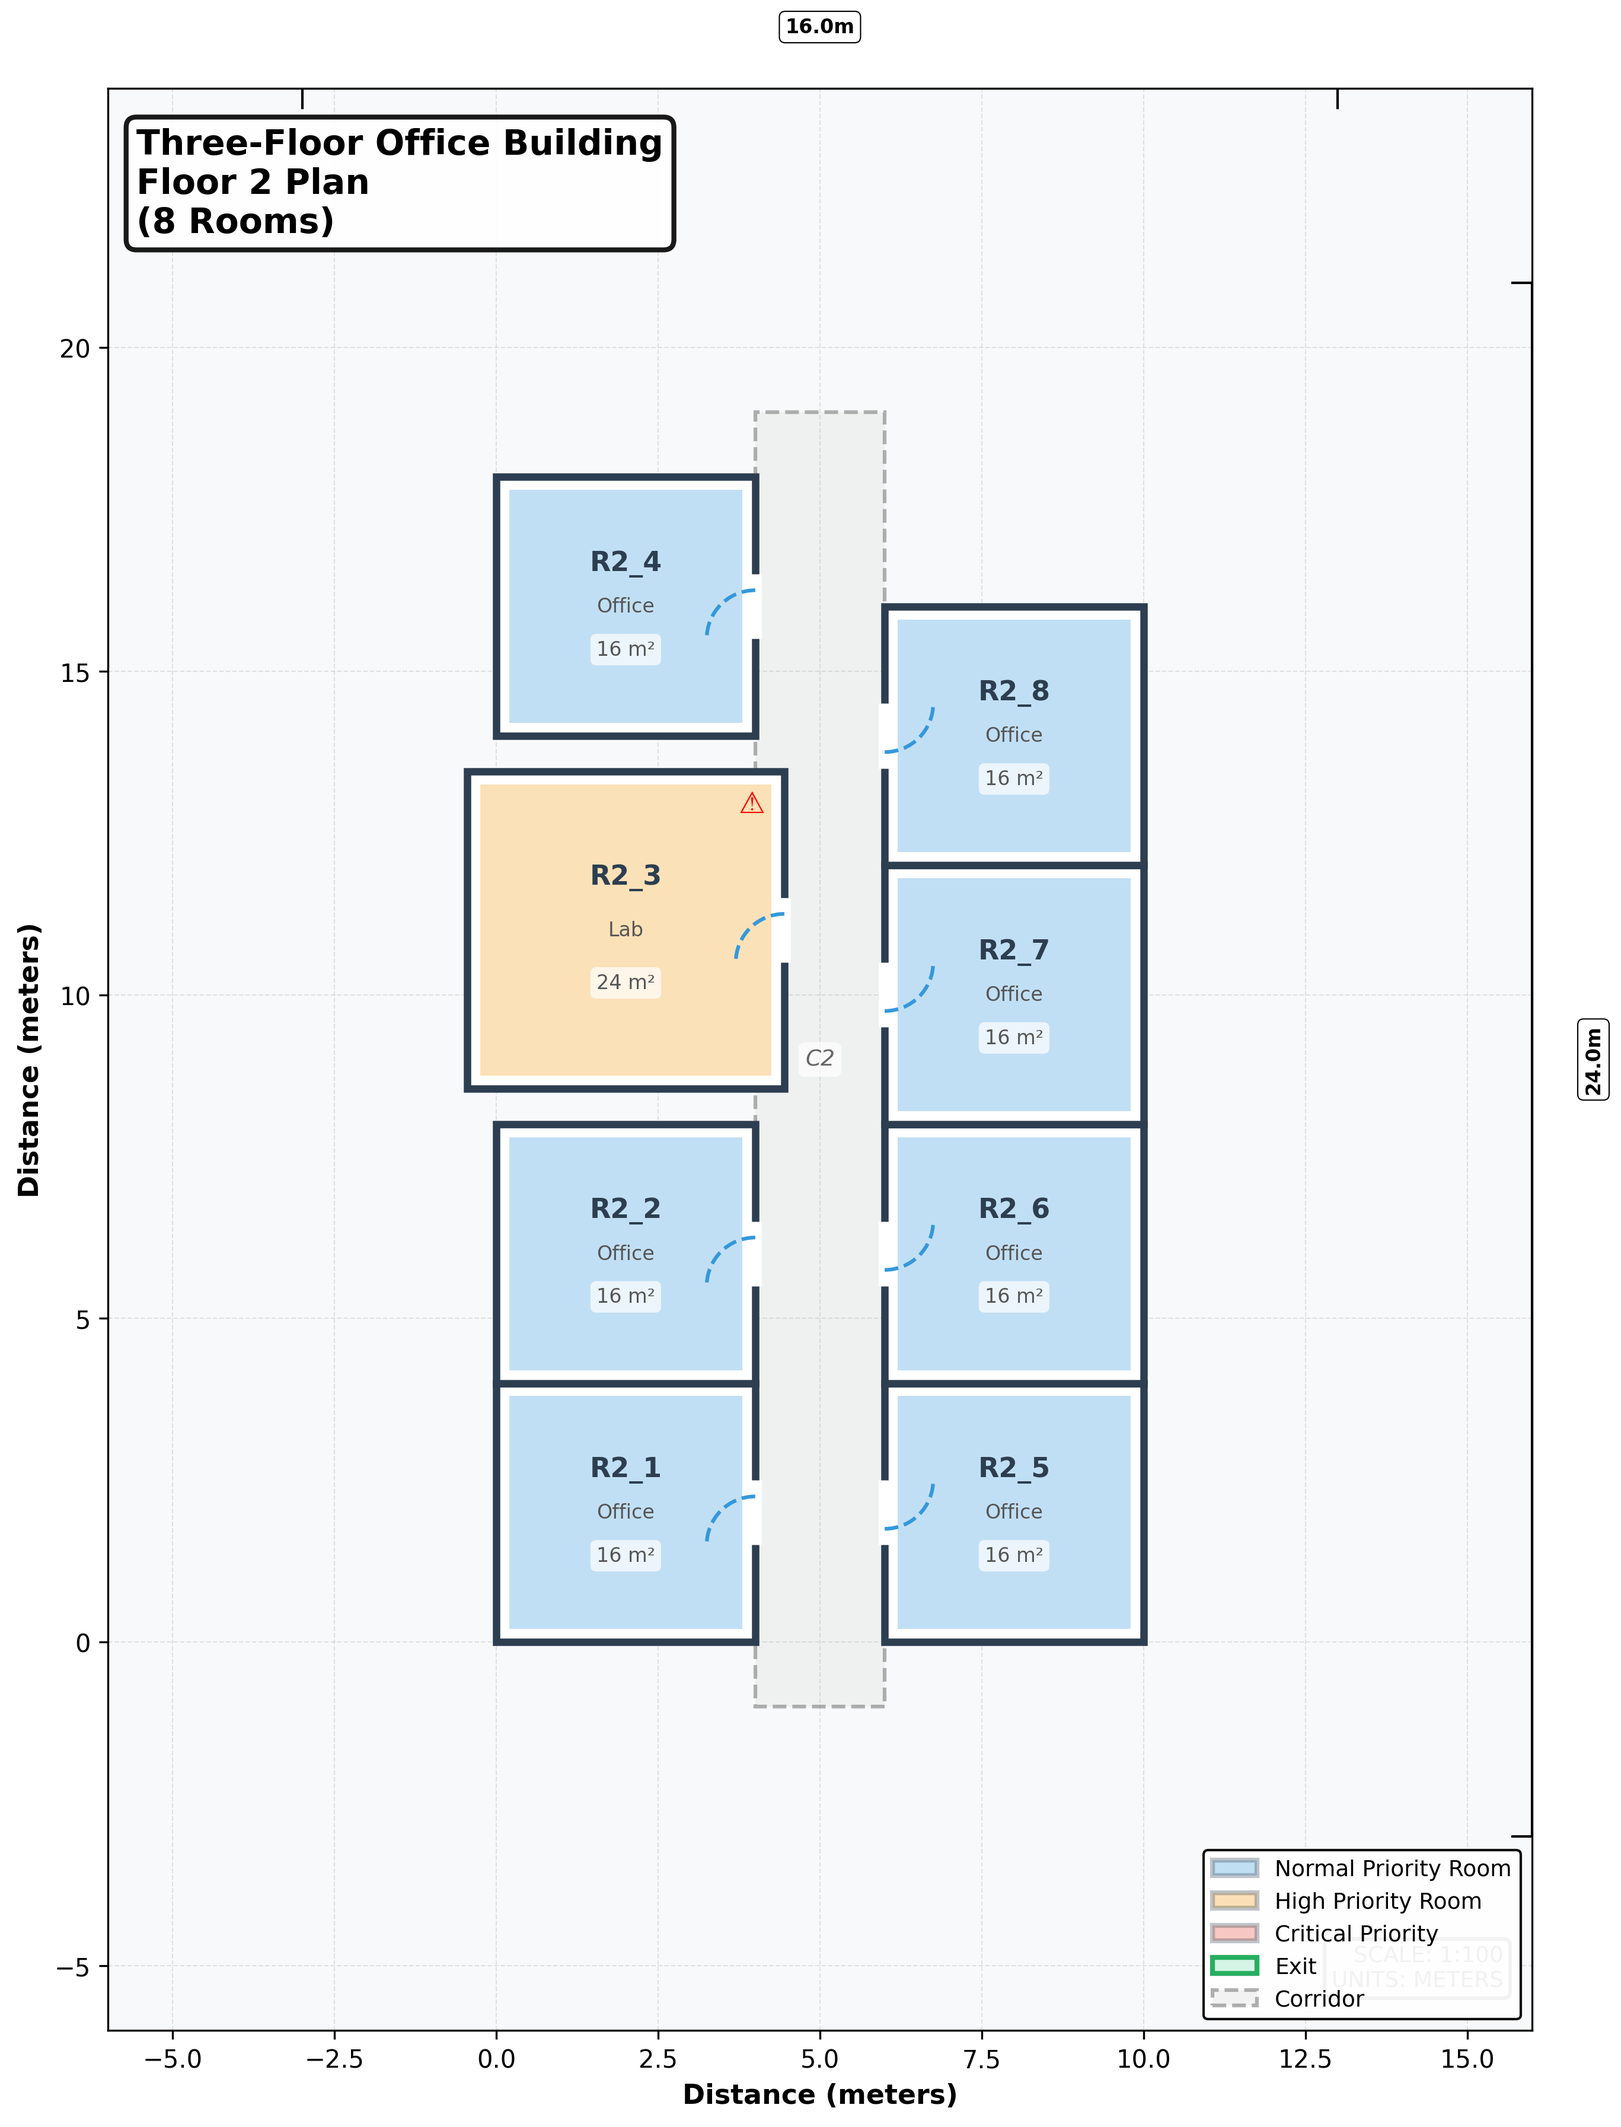
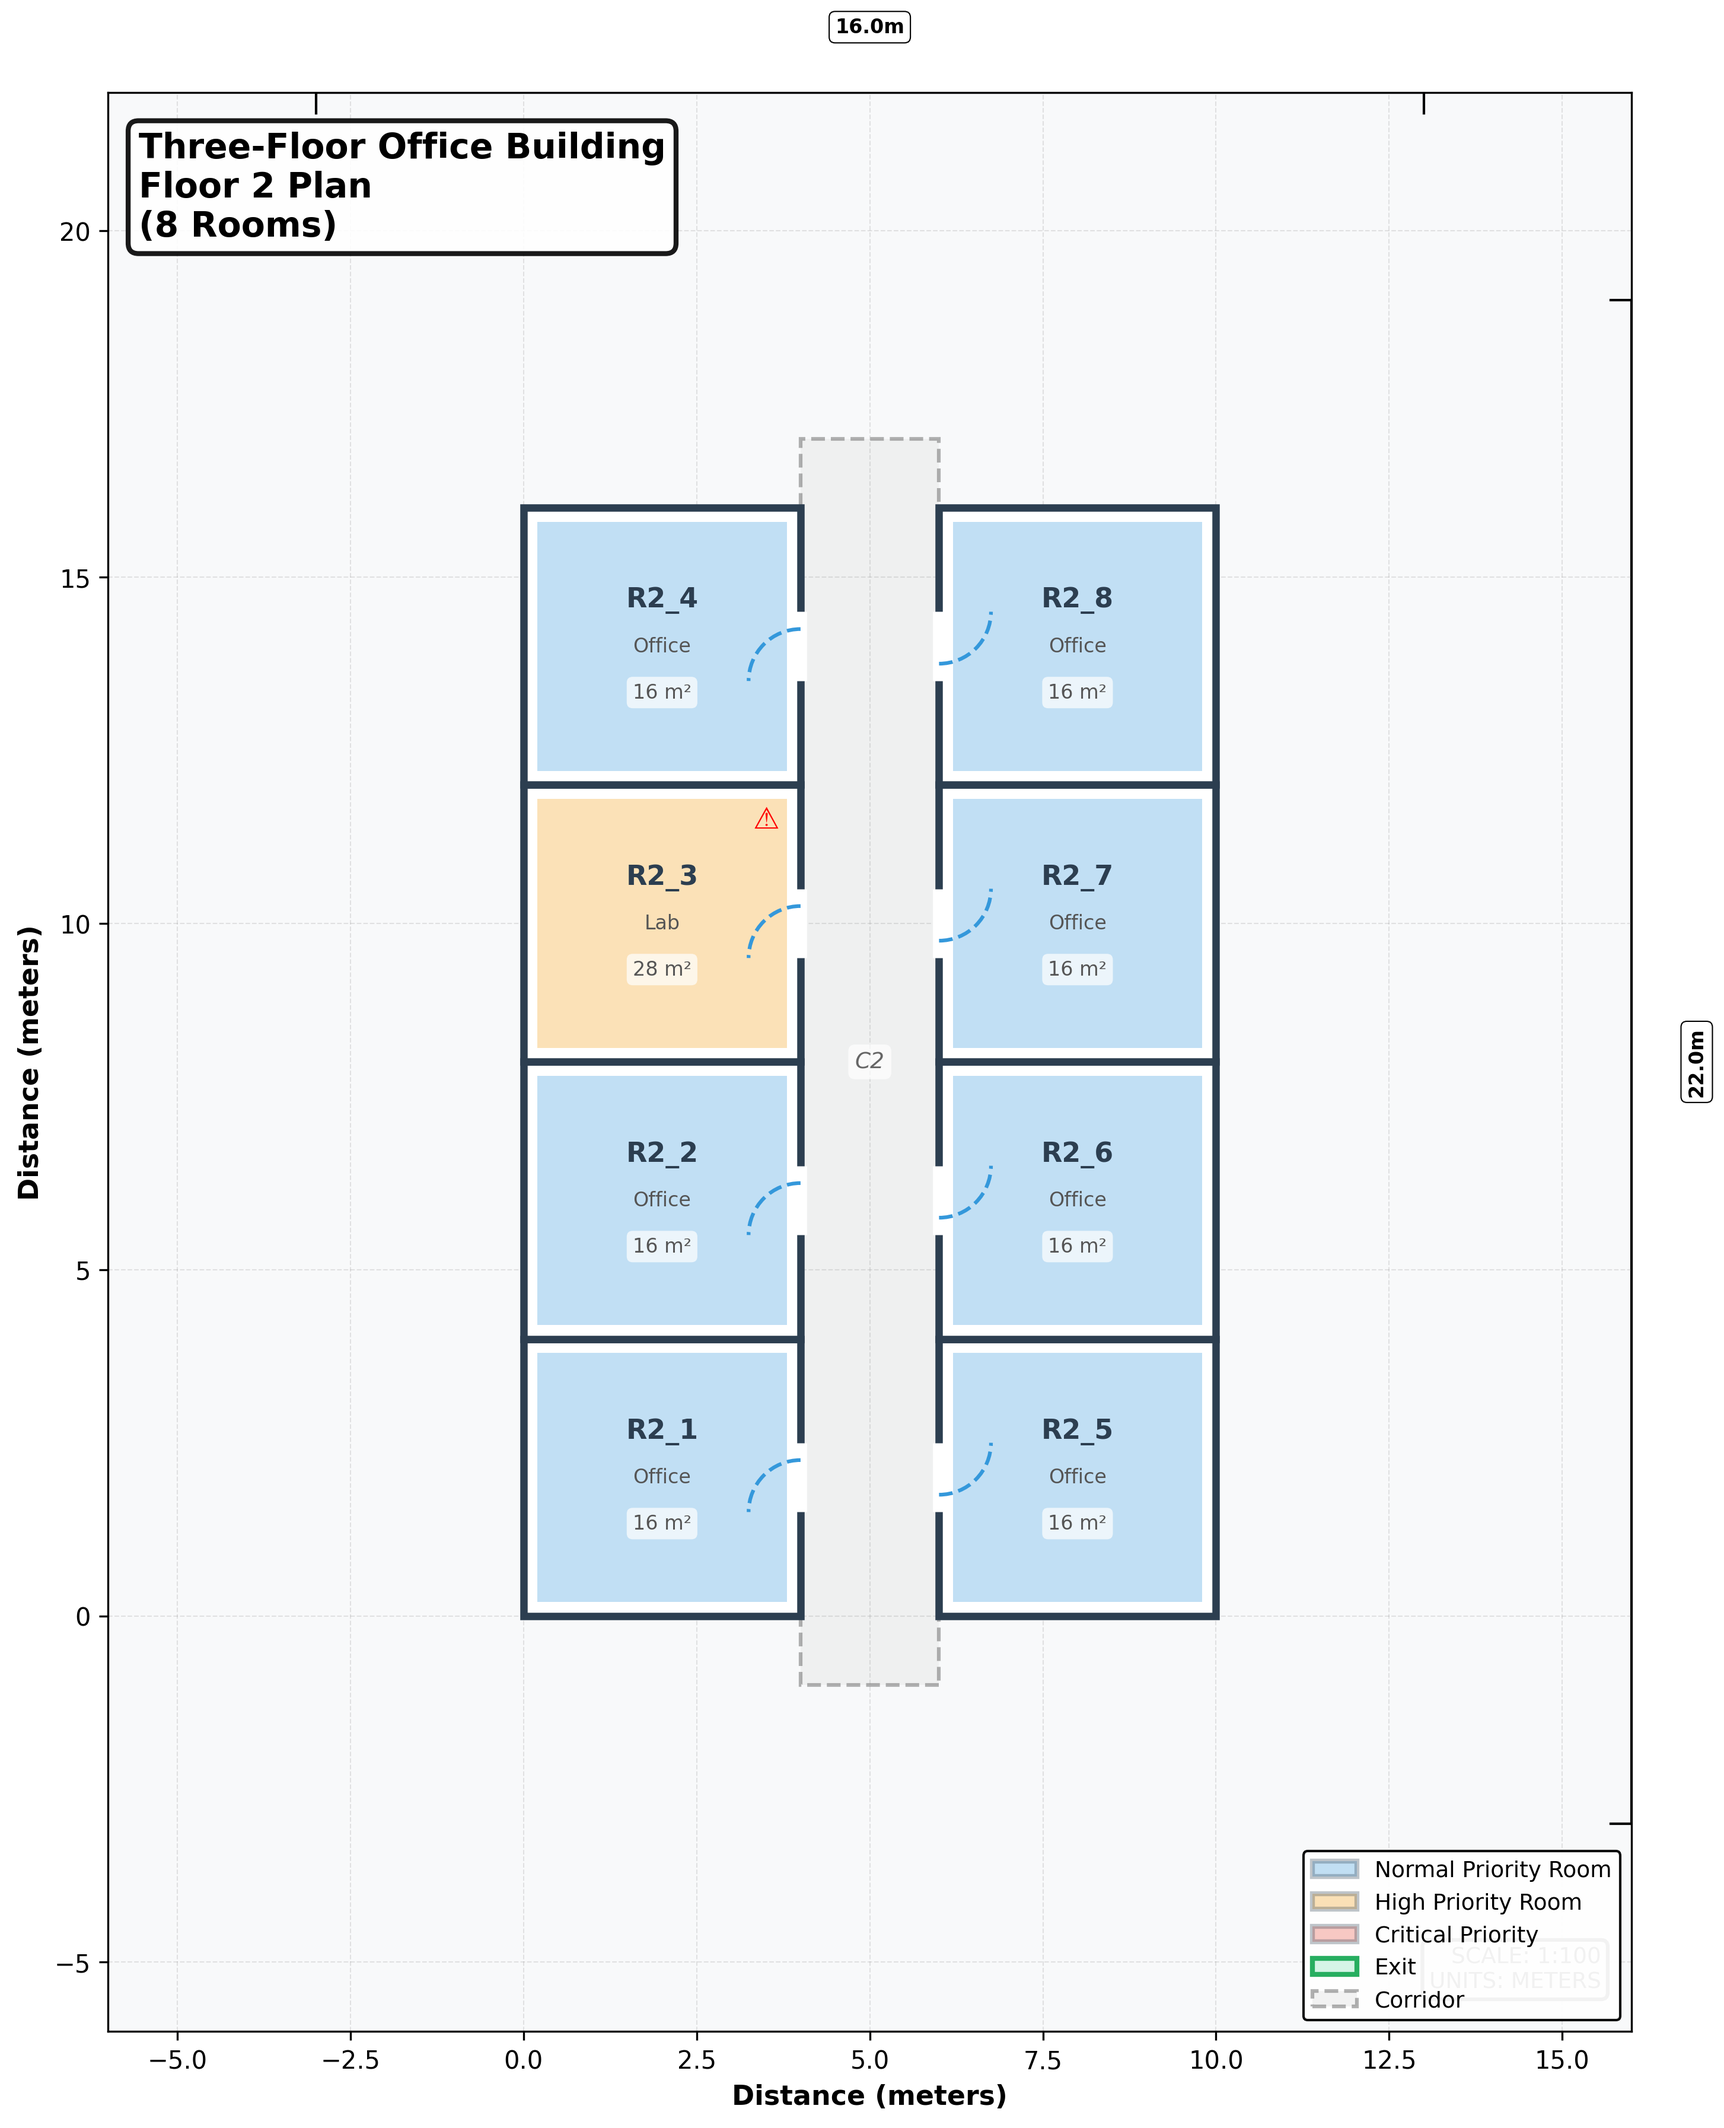
Perfect blueprint layouts with realistic room sizes
- Fixed all room positions to share walls (no gaps)
- Rooms display uniformly (4x4m squares) but show actual areas
- Scenario 2: Realistic office sizes (16-32m²)
- Scenario 3: Realistic school sizes (12-100m²)
  * Gym: 100m², Cafeteria: 90m², Library: 80m²
  * Classrooms: 48m², Labs: 60m², Restrooms: 20m²
- Simplified exit display (text label only)
- All three scenarios now have perfect compact layouts

diff --git a/src/visualization/blueprint.py b/src/visualization/blueprint.py
@@ -152,7 +152,8 @@ class BlueprintDrawer:
     def _draw_room_blueprint(self, ax, room):
         """Draw room with walls, door toward corridor, and annotations"""
         x, y = room.position
-        size = np.sqrt(room.area)
+        # Use FIXED display size for uniform layout (actual area shown in label)
+        size = 4.0  # All rooms displayed as 4x4 squares
         
         # Determine door position based on corridor location
         door_side = self._determine_door_side(room)

diff --git a/examples/generate_blueprints.py b/examples/generate_blueprints.py
@@ -105,7 +105,8 @@ class BlueprintGenerator:
     def _draw_room(self, ax, room):
         """Draw room with walls and door"""
         x, y = room.position
-        size = np.sqrt(room.area)
+        # Use FIXED display size for uniform layout
+        size = 4.0  # All rooms displayed as 4x4 squares
         
         # Walls
         wall_color = '#2C3E50'
